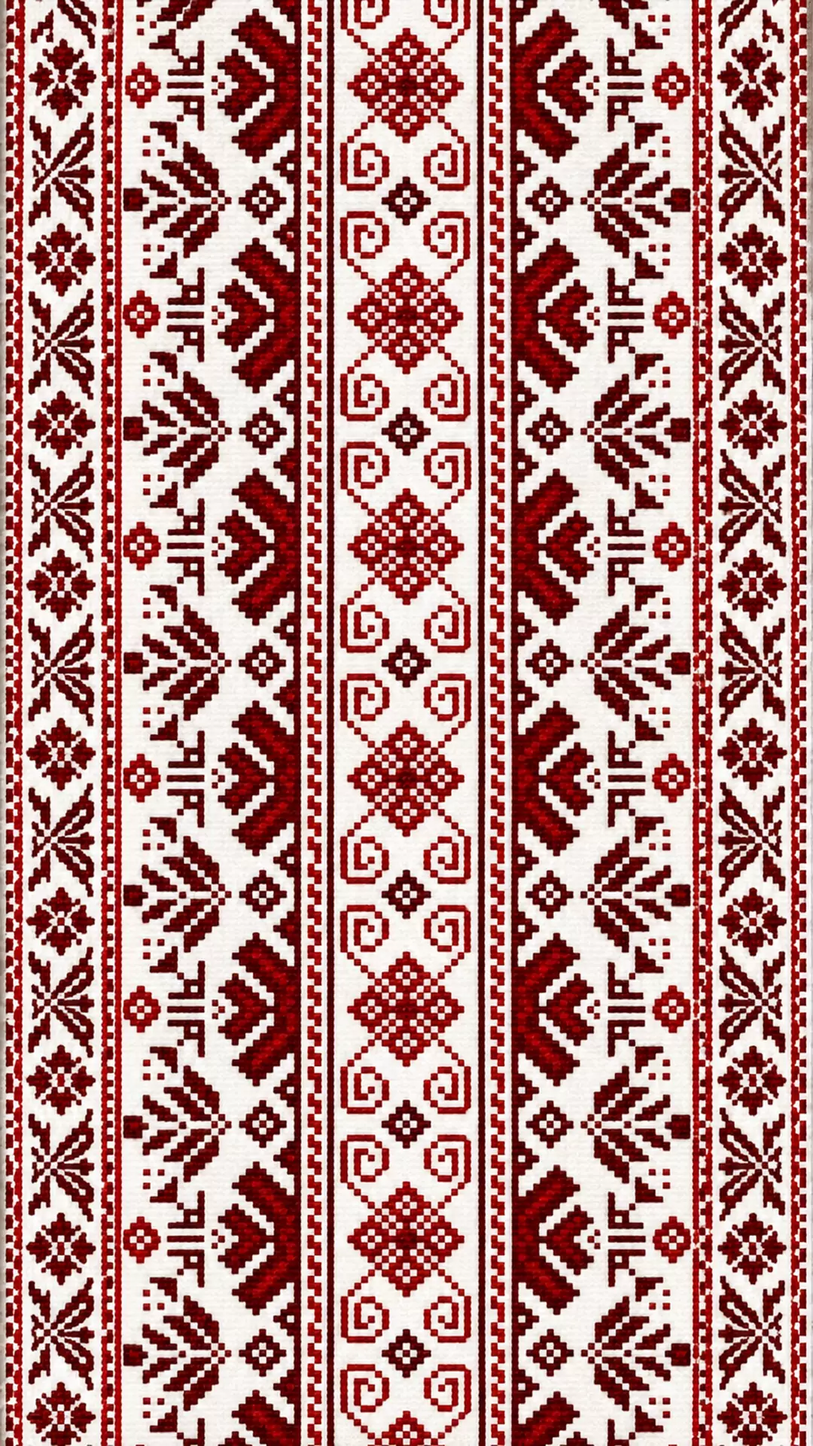
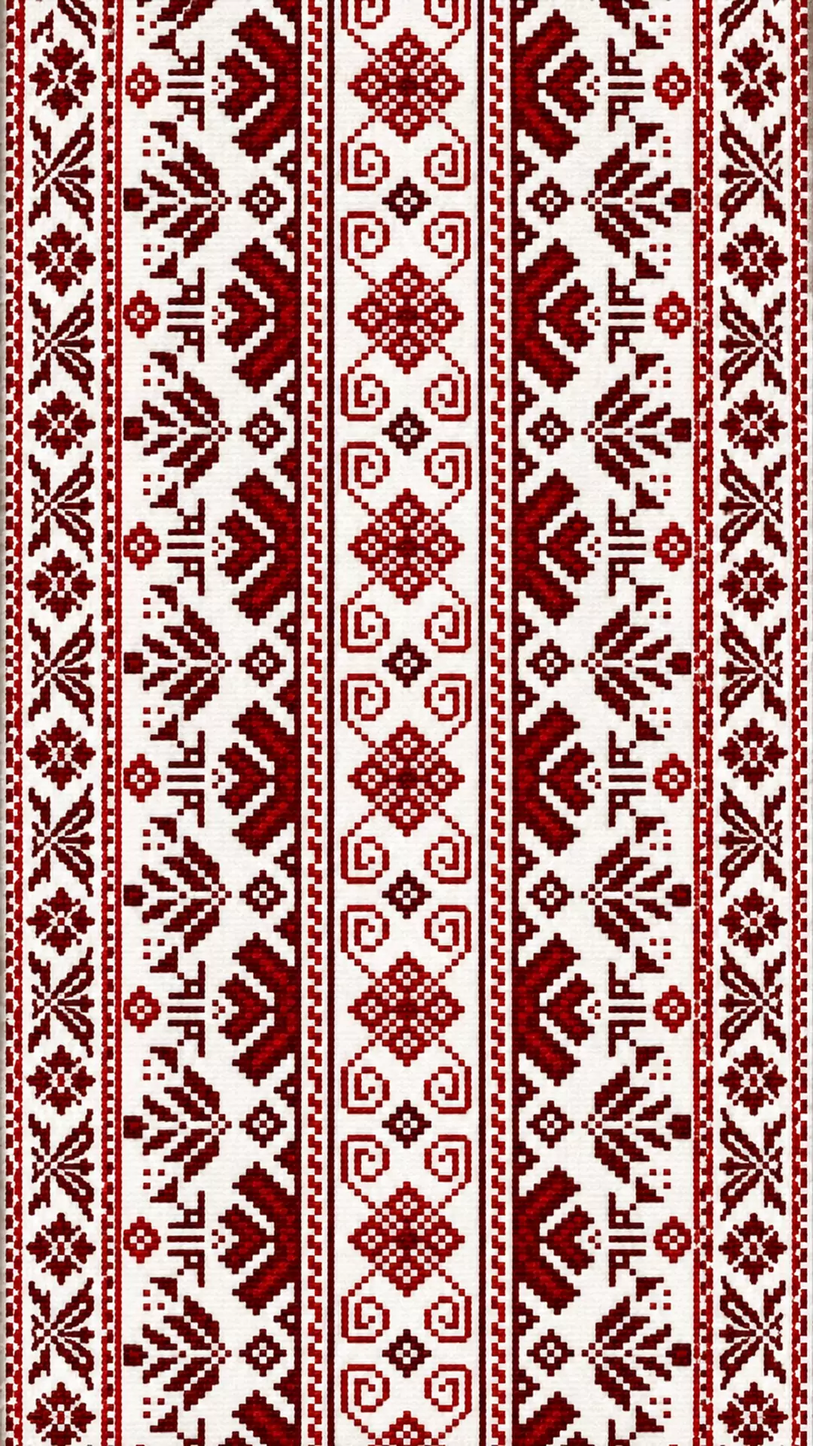
fix(shop): red embroidery from the full 2160x3840 master

diff --git a/sw.js b/sw.js
@@ -7,7 +7,7 @@
 // new CACHE version, which downloads them again on install. So the game starts
 // without re-downloading megabytes, online or not.
 
-const CACHE = 'filword-v47';
+const CACHE = 'filword-v48';
 // Every file the game needs. On the very first visit modules load before the
 // worker starts, so they must be listed here to work offline (a test checks it).
 const CORE = ['./', 'index.html', 'style.css', 'manifest.webmanifest', 'data/words.json.gz',

diff --git a/src/game.js b/src/game.js
@@ -45,7 +45,7 @@ const STORAGE_KEY = CFG.stateKey;
 const BOARD_SIZE = CFG.size;
 // Shown in the menu, so it is easy to tell which version a phone runs.
 // Must match CACHE in sw.js (a test checks it).
-export const VERSION = 47;
+export const VERSION = 48;
 const STATS_KEY = CFG.statsKey;
 // Only the middle part of a cell reacts to the finger. Crossing a corner
 // between cells would otherwise pick a diagonal neighbour by accident.
